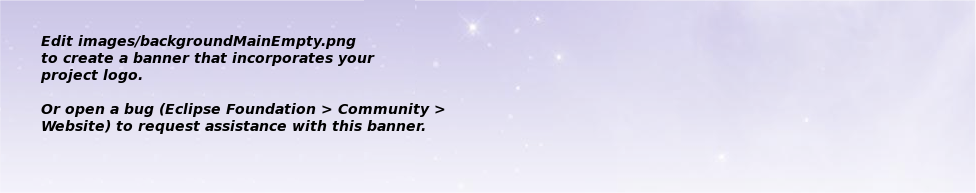
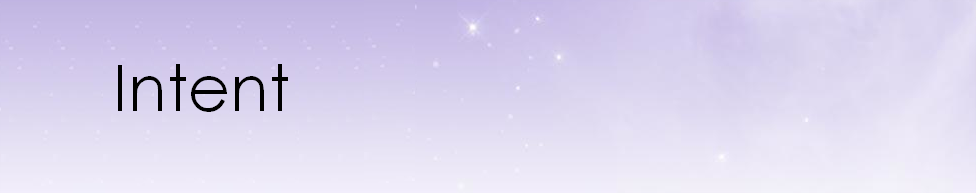
Intent website : - creation of a temporary index page

diff --git a/pages/_index.html b/pages/_index.html
@@ -1,91 +1,90 @@
 <div id="bigbuttons">
-<h3>Primary Links</h3>
-<ul>
-	<li><a id="buttonDownload" href="download.php" title="Download">Eclipse
-	Distribution, Update Site, Dropins</a></li>
-	<li><a id="buttonDocumentation" href="midcolumn_example.php"
-		title="Documentation">Tutorials, Examples, Videos, Reference Documentation</a></li>
-	<li><a id="buttonSupport" href="midcolumn_example.php" title="Download">Bug
-	Tracker, Newsgroup, Professional Support</a></li>
-	<li><a id="buttonInvolved" href="midcolumn_example.php" title="Getting Involved">CVS,
-	Workspace Setup, Wiki, Committers</a></li>
-</ul>
+	<h3>Primary Links</h3>
+	<ul>
+		<li><a id="buttonDownload" href="download.php" title="Download">Eclipse
+		Distribution, Update Site, Dropins</a></li>
+		<li><a id="buttonDocumentation" href="http://wiki.eclipse.org/Intent"
+			title="Documentation">Tutorials, Examples, Videos, Reference Documentation</a></li>
+		<li><a id="buttonSupport" href="#" title="Download">Bug
+		Tracker, Newsgroup, Professional Support</a></li>
+		<li><a id="buttonInvolved" href="#" title="Getting Involved">CVS,
+		Workspace Setup, Wiki, Committers</a></li>
+	</ul>
 </div>
 
 <div id="midcolumn">
-<h3>MyProject - use this header describe what it does</h3>
-<div id="introText">
+	<h3>Intent - tooling for writing useful and synchronized documentation</h3>
+	<div id="introText">
 
-<p class="left">MyProject is a framework for development of cool stuff and
-more cool stuff. Just describe your project here very briefly. Use the center 
-section below for a screenshot, a screenshot collage or a screencast.</p>
+		<p class="left">
+			<a href="http://wiki.eclipse.org/Intent"> Intent</a> is a tool allowing developers to easily write a documentation up-to-date with any development artifact (models, code, environment...). 
+			<br/><br/>
+			The documentation, integrated with other Eclipse tools, then becomes truly useful and is no longer a burden that developer have to carry to please their customers or their project manager.
+			<br/><br/>
+			Based on Donald Knuth's <a href="http://www-cs-faculty.stanford.edu/~uno/lp.html">Literate Programming</a> concepts and allowing collaborative work around design tasks, Intent will try to reconcile developers with Documentation.
+		</p>
 
-<p class="right"> This project was just provisioned.  You can see the proposal 
-<a href="/proposals/mylyn.docs.intent">here</a>
+		<p class="right">
+		Intent will be released under the <a href="http://wiki.eclipse.org/Mylyn"> Mylyn </a> top-level project, and is planned to be fully integrated with Mylyn tools.
+		<br/><br/>
+		 This project was just provisioned. You can see the proposal 
+		<a href="/proposals/mylyn.docs.intent">here</a>, and get additional informations on the <a href="http://wiki.eclipse.org/Intent"> Intent's Wiki</a>.
 
-</p>
-
-</div>
+		</p>
+	</div>
 
  
 
-<div id="screencast">
-<object width="640" height="480"><param name="allowfullscreen" value="true" /><param name="allowscriptaccess" value="always" /><param name="movie" value="http://vimeo.com/moogaloop.swf?clip_id=8260921&amp;server=vimeo.com&amp;show_title=0&amp;show_byline=0&amp;show_portrait=0&amp;color=DBD7EF&amp;fullscreen=1" /><embed src="http://vimeo.com/moogaloop.swf?clip_id=8260921&amp;server=vimeo.com&amp;show_title=0&amp;show_byline=0&amp;show_portrait=0&amp;color=DBD7EF&amp;fullscreen=1" type="application/x-shockwave-flash" allowfullscreen="true" allowscriptaccess="always" width="640" height="480"></embed></object>
-</div>
-
-<!-- 
-<h3>...and yet powerful</h3>
- -->
-<div id="feature_1">
-
-<h4>Some cool feature</h4>
-<p>MyProject has this really cool feature that you describe here in few words, just as a teaser.</p>
-</div>
-
-<div id="feature_2">
-<h4>Another Feature</h4>
-<p>When working with MyProject, great things happen, and one of them is described here.</p>
-</div>
-
-<div id="feature_3">
-<h4>Another Feature</h4>
-<p>When working with MyProject, great things happen, and one of them is described here.</p>
-</div>
-
-<div id="feature_4">
-<h4>User Experience</h4>
-<p>
-Experiment with style.css to create columns for text, just the way you want it. This section 
-is a bit wider and can contain more words, even small logos or graphics to describe a neat feature in more detail.</p>
-</div>
-
-<div id="feature_more">
-<h4>and much more...</h4>
-<p>Read the MyProject <a href="/project/documentation.php">documentation</a> and join the discussion at the <a href="http://www.eclipse.org/forums/eclipse.newsgroup.name">forum</a> to understand how powerful MyProject is.</p>
-<p> Want to know more? <a href="/projects/project_summary.php?projectid=mylyn.docs.intent">About This Project</a>
-</div>
-
+	<div id="screencast">
+	<img src ="./images/screenshots/intent_synchronizer_01.png" alt="Synchronize documentation and code with Intent"/>
+	</div>
 </div>
 
 <div id="rightcolumn">
+	<div class="sideitem" id="obeo">
+		<a href="http://www.obeo.fr" title="Main Obeo website" rel="nofollow"><img src="images/logos/logo_obeo.png"/></a>
+	</div>
+	
+	<div>
+		<h3>Incubation</h3>
+		<p >
+			<a  style="float: right;" href="http://www.eclipse.org/projects/what-is-incubation.php" title="Incubation">
+				<img  alt="Incubation" src="./images/logos/egg-incubation.png"/>
+			</a>
+		</p>
+	</div>
 
-<div>
-<h3>Current Status</h3>
-<p>Update this section occasionally to let your community know what's new and exciting with your project....</p>
-</div>
-
-<div id="headlines">
-<h3>New and Noteworthy</h3>
-<p>... or a link to your new and noteworthy.</p>
-</div>
-
-<div id="headlines">
-<h3>Headlines on the web</h3>
-<p>Project headlines...</p>
-</div>
-
-<div id="headlines">
-<h3>Another announcement</h3>
-<p>MyProject is pleased to announce...</p>
-</div>
+	<div id="headlines">
+		<h3>News and Noteworthy</h3>
+		<script src="http://widgets.twimg.com/j/2/widget.js"></script>
+		<script>
+			new TWTR.Widget({
+				version: 2,
+				type: 'profile',
+				rpp: 20,
+				interval: 6000,
+				width: 250,
+				height: 300,
+				theme: {
+					shell: {
+						background: '#e8e7dd',
+						color: '#000000'
+					},
+					tweets: {
+						background: '#FFFFFF',
+						color: '#000000',
+					}
+				},
+				features: {
+					scrollbar: true,
+					loop: true,
+					live: true,
+					hashtags: true,
+					timestamp: true,
+					avatars: true,
+					behavior: 'all'
+				}
+			}).render().setUser('Intent_project').start();
+		</script>
+	</div>
 </div>

diff --git a/intent_style.css b/intent_style.css
@@ -188,3 +188,19 @@ a strong {
    background:transparent url("images/bannerNewAndNoteworthy08M4.png") no-repeat 0 0;
    margin-top: 10px;
 }
+
+#obeo a {
+	display: block;
+	padding: 0;
+	margin-top: 10px;
+	margin-left: auto;
+	margin-right: auto;
+}
+
+#obeo img {
+	display: block;
+	width: 117px;
+	height: 60px;
+	margin-left: auto;
+	margin-right: auto;
+}

diff --git a/index.php b/index.php
@@ -10,15 +10,15 @@
  *    
  *******************************************************************************/
 
-	require_once($_SERVER['DOCUMENT_ROOT'] . "/eclipse.org-common/system/app.class.php");	require_once($_SERVER['DOCUMENT_ROOT'] . "/eclipse.org-common/system/nav.class.php"); 	require_once($_SERVER['DOCUMENT_ROOT'] . "/eclipse.org-common/system/menu.class.php"); 	$App 	= new App();	$Nav	= new Nav();	$Menu 	= new Menu();		include($App->getProjectCommon());
+	require_once($_SERVER['DOCUMENT_ROOT'] . "/eclipse.org-common/system/app.class.php");
+	require_once($_SERVER['DOCUMENT_ROOT'] . "/eclipse.org-common/system/nav.class.php");
+ 	require_once($_SERVER['DOCUMENT_ROOT'] . "/eclipse.org-common/system/menu.class.php");
+ 	$App 	= new App();
+	$Nav	= new Nav();
+	$Menu 	= new Menu();
 	
+	include($App->getProjectCommon());	
 	$localVersion = false;
-	
-	# Define these here, or in _projectCommon.php for site-wide values
-	$pageKeywords	= "eclipse, project";
-	$pageAuthor		= "Your name";
-	$pageTitle 		= "My project home";
-	
 	
 	// 	# Paste your HTML content between the EOHTML markers!
 	$html = file_get_contents('pages/_index.html');

diff --git a/download.php b/download.php
@@ -10,20 +10,15 @@
  *    
  *******************************************************************************/
 
-	$pageTitle 		= "MyProject - Download";
+	$pageTitle 		= "Intent - Download";
 
 	$html  = <<<EOHTML
 <div id="midcolumn">
 <h2>$pageTitle</h2>
 <p>All downloads are provided under the terms and conditions of the <a href="/legal/epl/notice.php">Eclipse Foundation Software User Agreement</a> unless otherwise specified.</p>
 
-<h3>Galileo - Eclipse 3.5</h3>
-<p><b>Update site:</b> http://download.eclipse.org/myproject/<br />
-<b>ZIP file: </b><a href="/downloads/download.php?file=/myproject/file.zip">file.zip</a> (10 MiB)</p>
-
-<h3>Helios - Eclipse 3.6 (unreleased)</h3>
-<p><b>Update site:</b> http://download.eclipse.org/myproject/<br />
-<b>ZIP file: </b><a href="/downloads/download.php?file=/myproject/file.zip">file.zip</a> (10 MiB)</p>
+<p> No release available yet. Initial contribution is on the run.
+</p>
 
 
 </div>

diff --git a/_projectCommon.php b/_projectCommon.php
@@ -32,9 +32,9 @@
 	$Nav->addCustomNav("Getting Involved", "/project/developers", "_blank", 3);
 
 	# Define keywords, author and title here, or in each PHP page specifically
-	$pageKeywords	= "xtext, dsl, modeling, domain specific language, textual";
-	$pageAuthor		= "Your name";
-	# $pageTitle 		= "Xtext";
+	$pageKeywords	= "intent, mylyn, doc, documentation, literate, modeling";
+	$pageAuthor		= "Obeo";
+	$pageTitle 		= "Intent";
 
 
 	# top navigation bar
@@ -47,7 +47,7 @@
 	# $Menu->addMenuItem("Developers", "/project/developers", "_self");
 	
 	# To define additional CSS or other pre-body headers
-	$App->AddExtraHtmlHeader('<link rel="stylesheet" type="text/css" href="/default/style.css"/>');
+	$App->AddExtraHtmlHeader('<link rel="stylesheet" type="text/css" href="/intent/intent_style.css"/>');
 	
 	# To enable occasional Eclipse Foundation Promotion banners on your pages (EclipseCon, etc)
 	$App->Promotion = TRUE;
